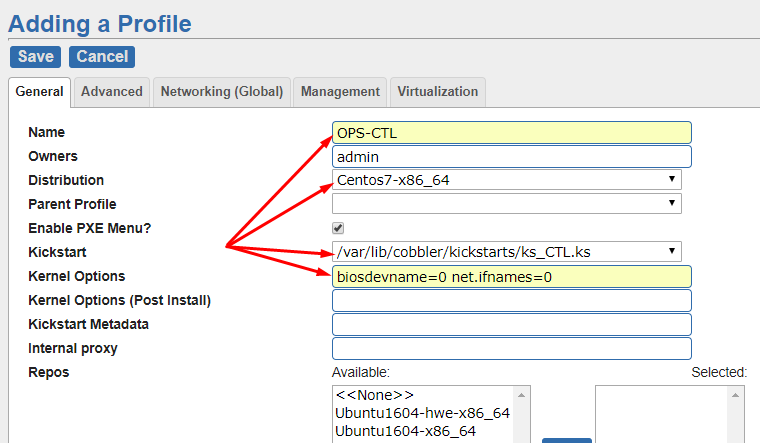
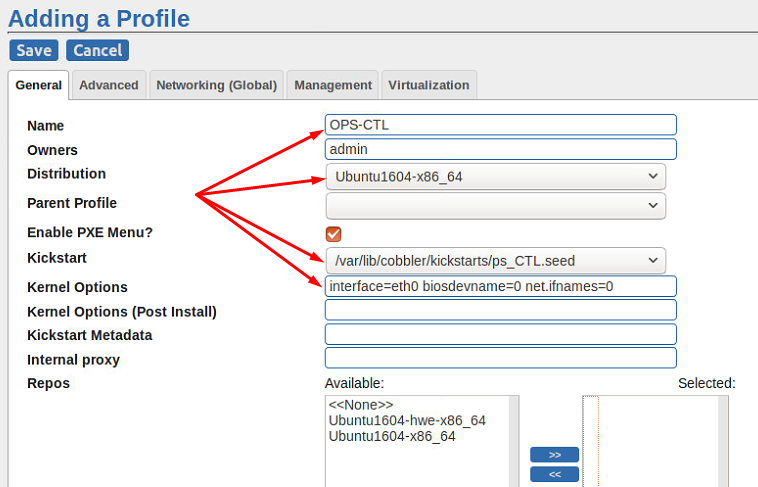
Update "OPS Queens"

Changed region(s): [[0.0, 0.0, 1.0, 1.0], [0.7586, 0.7923, 0.7889, 0.8217], [0.3641, 0.2935, 0.3945, 0.3228]]

diff --git a/Queens/Ubuntu1604-KickStart/README.md b/Queens/Ubuntu1604-KickStart/README.md
@@ -156,13 +156,13 @@ cd /var/www/html/preseed_OPS
   ```
 
 Các file sinh ra sẽ có tên lần lượt như sau:  
-`ks_CTL.ks`, `ks_COM1.ks`, `ks_COM2.ks`.  
+`ks_CTL.seed`, `ks_COM1.seed`, `ks_COM2.seed`.  
 
 \- Copy các file vừa sinh ra sang thư mục preseed của Cobbler:  
 ```
-cp /var/www/html/preseed_OPS/ps_CTL.ks /var/lib/cobbler/kickstarts
-cp /var/www/html/preseed_OPS/ps_COM1.ks /var/lib/cobbler/kickstarts
-cp /var/www/html/preseed_OPS/ps_COM2.ks /var/lib/cobbler/kickstarts
+cp /var/www/html/preseed_OPS/ps_CTL.seed /var/lib/cobbler/kickstarts
+cp /var/www/html/preseed_OPS/ps_COM1.seed /var/lib/cobbler/kickstarts
+cp /var/www/html/preseed_OPS/ps_COM2.seed /var/lib/cobbler/kickstarts
 ```
 
 ## 6.2.Tạo profiles cho Controller, Compute
